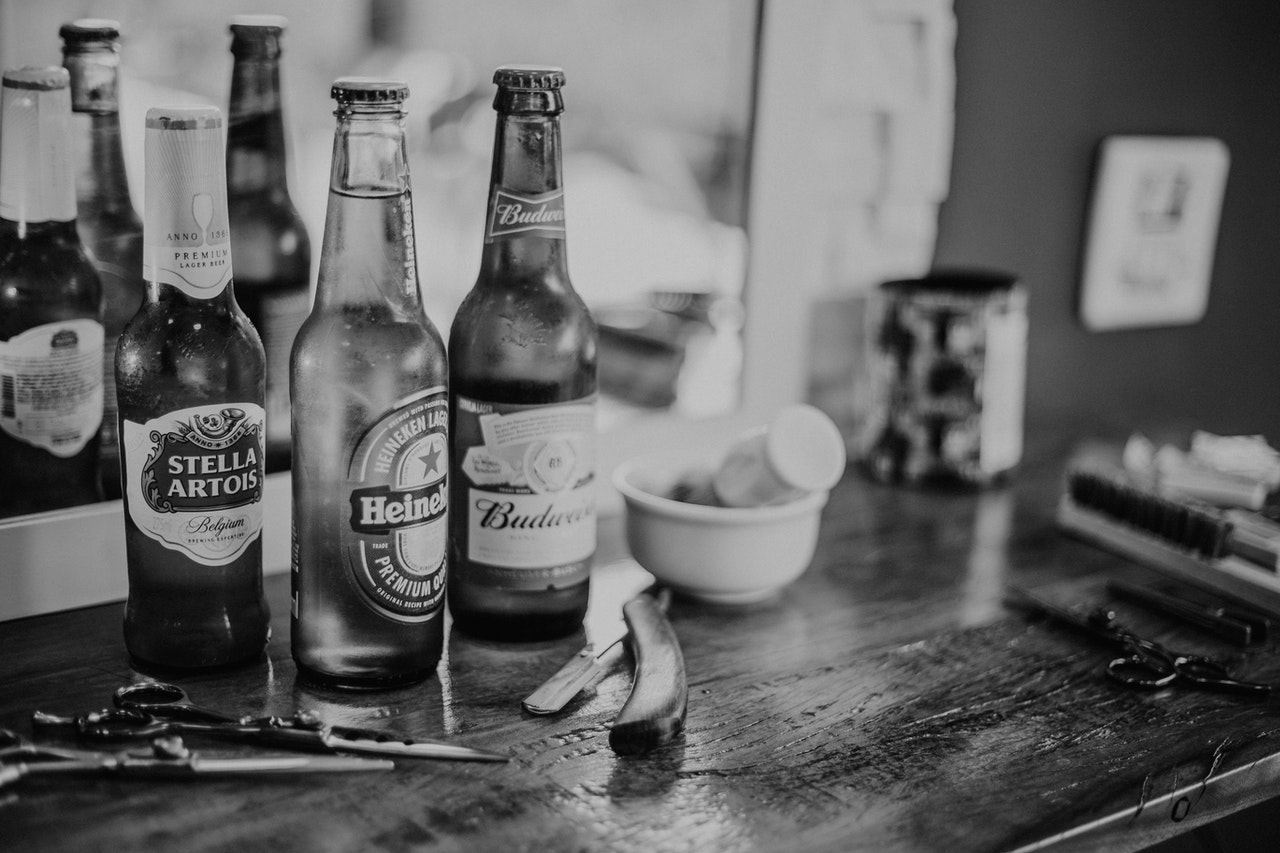
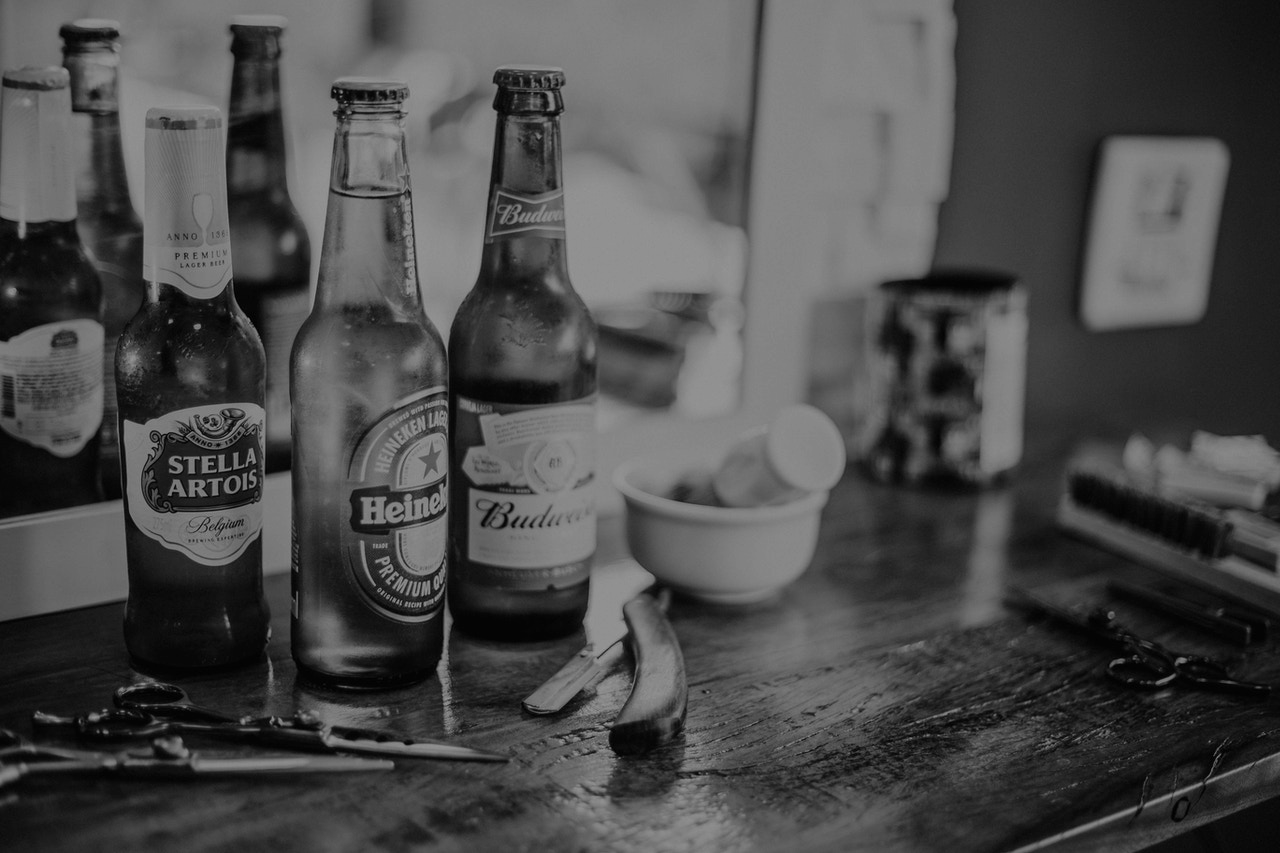
Mod: new card styling adjustments

diff --git a/src/components/Cards/Cards.js b/src/components/Cards/Cards.js
@@ -7,8 +7,52 @@ function Cards(props) {
       <img className="card--image" src={props.data.strDrinkThumb} alt={props.data.strDrink} />
       <div className="card--copy">
         <h3 className="card--title">{props.data.strDrink}</h3>
-        <p className="card--instructions">{props.data.strInstructions}</p>
       </div>
+      {/* <div className="list--container"> */}
+      {/* <div className="desc--title">Ingredients</div>
+          <ul className="ingredients--list">
+            {props.data.strIngredient1 && (
+              <li className="list-item">
+                {props.data.strIngredient1}: {props.data.strMeasure1}
+              </li>
+            )}
+            {props.data.strIngredient2 && (
+              <li className="list-item">
+                {props.data.strIngredient2}: {props.data.strMeasure2}
+              </li>
+            )}
+            {props.data.strIngredient3 && (
+              <li className="list-item">
+                {props.data.strIngredient3}: {props.data.strMeasure3}
+              </li>
+            )}
+            {props.data.strIngredient4 && (
+              <li className="list-item">
+                {props.data.strIngredient4}: {props.data.strMeasure4}
+              </li>
+            )}
+            {props.data.strIngredient5 && (
+              <li className="list-item">
+                {props.data.strIngredient5}: {props.data.strMeasure5}
+              </li>
+            )}
+            {props.data.strIngredient6 && (
+              <li className="list-item">
+                {props.data.strIngredient6}: {props.data.strMeasure6}
+              </li>
+            )}
+            {props.data.strIngredient7 && (
+              <li className="list-item">
+                {props.data.strIngredient7}: {props.data.strMeasure7}
+              </li>
+            )}
+            {props.data.strIngredient8 && (
+              <li className="list-item">
+                {props.data.strIngredient8}: {props.data.strMeasure8}
+              </li>
+            )}
+          </ul> */}
+      {/* </div> */}
     </a>
   );
 }

diff --git a/src/components/PopModal/PopModal.js b/src/components/PopModal/PopModal.js
@@ -1,0 +1,50 @@
+import React from 'react';
+import Popup from 'reactjs-popup';
+
+
+export default PopModal() {
+  return (
+    <Popup trigger={<button className="button"> Open Modal </button>} modal nested>
+      {(close) => (
+        <div className="modal">
+          <button className="close" onClick={close}>
+            &times;
+          </button>
+          <div className="header"> Modal Title </div>
+          <div className="content">
+            {' '}
+            Lorem ipsum dolor sit amet consectetur adipisicing elit. Atque, a nostrum. Dolorem,
+            repellat quidem ut, minima sint vel eveniet quibusdam voluptates delectus doloremque,
+            explicabo tempore dicta adipisci fugit amet dignissimos?
+            <br />
+            Lorem ipsum dolor sit amet, consectetur adipisicing elit. Consequatur sit commodi beatae
+            optio voluptatum sed eius cumque, delectus saepe repudiandae explicabo nemo nam libero ad,
+            doloribus, voluptas rem alias. Vitae?
+          </div>
+          <div className="actions">
+            <Popup
+              trigger={<button className="button"> Trigger </button>}
+              position="top center"
+              nested
+            >
+              <span>
+                Lorem ipsum dolor sit amet, consectetur adipisicing elit. Beatae magni omnis delectus
+                nemo, maxime molestiae dolorem numquam mollitia, voluptate ea, accusamus excepturi
+                deleniti ratione sapiente! Laudantium, aperiam doloribus. Odit, aut.
+              </span>
+            </Popup>
+            <button
+              className="button"
+              onClick={() => {
+                console.log('modal closed ');
+                close();
+              }}
+            >
+              close modal
+            </button>
+          </div>
+        </div>
+      )}
+    </Popup>
+  )
+};

diff --git a/src/components/Cards/Cards.scss b/src/components/Cards/Cards.scss
@@ -1,6 +1,8 @@
 @import '../../styles/variables/colors.scss';
 
 .card {
+  display: flex;
+  align-items: flex-end;
   box-shadow: 2px 3px 5px rgba(0, 0, 0, 0.15);
   border-radius: 0.5rem;
   border: 1px solid rgba(0, 0, 0, 0.1);
@@ -8,32 +10,66 @@
   transition: box-shadow 200ms ease-in-out;
   overflow: hidden;
   background-color: $Bright;
+  position: relative;
+  min-height: 300px;
 
   &:hover {
     box-shadow: 2px 3px 5px rgba(0, 0, 0, 0.25);
   }
+
+  &::after {
+    content: '';
+    position: absolute;
+    inset: 0;
+    background-image: linear-gradient(to top, rgba(0, 0, 0, 0.7) 10%, rgba(0, 0, 0, 0) 40%);
+    z-index: unset;
+  }
 }
 
 .card--image {
-  height: 200px;
+  position: absolute;
+  height: 100%;
   width: 100%;
   object-fit: cover;
+  object-position: center;
+  z-index: unset;
 }
 
 .card--copy {
   padding: 1rem;
+  z-index: 3;
+  width: 100%;
 }
 
 .card--title {
-  font-size: 1.1rem;
+  font-size: 0.85rem;
+  font-weight: 500;
+  line-height: 1.4;
+  letter-spacing: 0.025rem;
+  color: $Bright;
+  text-transform: uppercase;
 }
 
-.card--instructions {
-  margin-top: 0.5rem;
-  font-size: 0.9rem;
-  font-weight: 300;
-  display: -webkit-box;
-  -webkit-line-clamp: 8;
-  -webkit-box-orient: vertical;
-  overflow: hidden;
-}
+// .list--container {
+//   margin-top: 0.5rem;
+// }
+
+// .desc--title {
+//   font-size: 0.9rem;
+//   color: $Description;
+// }
+
+// .ingredients--list {
+//   font-size: 0.9rem;
+//   margin-top: 0.5rem;
+//   list-style: disc outside;
+//   padding-left: 1rem;
+// }
+
+// .list-item {
+//   margin-top: 0.15rem;
+
+//   &:first-child {
+//     margin-top: 0;
+//   }
+// }

diff --git a/src/styles/variables/colors.scss b/src/styles/variables/colors.scss
@@ -3,4 +3,4 @@ $Secondary: rgb(239, 234, 90);
 // $Accent: rgb(239, 234, 90);
 $Background: rgb(240, 240, 240);
 $Bright: rgb(255, 255, 255);
-$Description: rgb(204, 204, 204);
+$Description: rgb(168, 167, 167);

diff --git a/src/components/App/App.scss b/src/components/App/App.scss
@@ -26,7 +26,7 @@ body {
 
 .content--headline {
   font-weight: 900;
-  font-size: 2.5rem;
+  font-size: 2rem;
   text-align: center;
   text-transform: uppercase;
   color: $Bright;

diff --git a/src/components/App/ButtonCategories.js b/src/components/App/ButtonCategories.js
@@ -24,6 +24,11 @@ let ButtonCategories = [
     name: 'Beer',
     on: false,
   },
+  {
+    id: 6,
+    name: 'Wine',
+    on: false,
+  },
 ];
 
 export default ButtonCategories;
